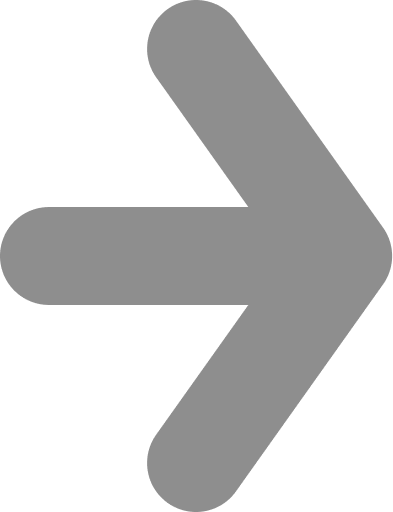
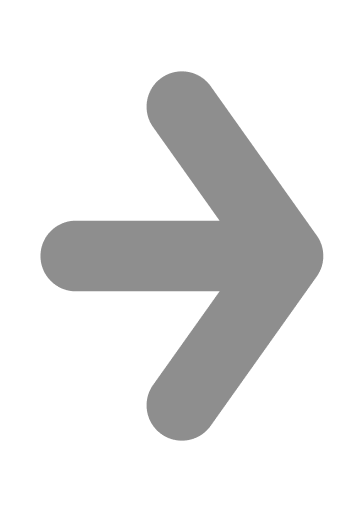
feat(frontend-uiblocks): Create ReportItemCard presentational component (#88)
* upload arrow-right asset

* Render the item's header, image placeholder, and details.

* Implement report-item-card visual styling,

* Define as a 'dumb' component, accepts item data via @Input() and emits a click event via @Output() (ticketClicked).

* refactor(ui-blocks): Enforce type safety and coding standards

* fix(model): Add export to item-model

* fix(ui-blocks): refactor ReportItemCard

* fix(frontend-model): readd item model property to recommended model file

Changed region(s): [[0.0, 0.0, 0.9973, 1.0]]

diff --git a/frontend/recorever-frontend/src/app/share-ui-blocks/report-item-grid/report-item-card/report-item-card.scss b/frontend/recorever-frontend/src/app/share-ui-blocks/report-item-grid/report-item-card/report-item-card.scss
@@ -1,0 +1,154 @@
+$primary-purple: #5d50d0;
+$light-grey-bg: #f5f5f5;
+$border-color: #eee;
+$text-color: #333;
+$secondary-text: #666;
+
+.item-card {
+  background-color: #fff;
+  border-radius: 8px;
+  box-shadow: 0 2px 4px rgba(0, 0, 0, 0.1);
+  overflow: hidden;
+  width: 300px;
+  margin: 20px;
+  border: 1px solid $border-color;
+
+  .card-header {
+    display: flex;
+    align-items: center;
+    padding: 10px 15px;
+    background-color: $light-grey-bg;
+    border-bottom: 1px solid $border-color;
+
+    .avatar {
+      background-color: $primary-purple;
+      color: white;
+      border-radius: 50%;
+      width: 35px;
+      height: 35px;
+      margin-right: 10px;
+      text-align: center;
+      line-height: 35px;
+      font-size: 14px;
+      font-weight: bold;
+      flex-shrink: 0;
+    }
+
+    .info-text {
+      .item-name {
+        margin: 0;
+        font-size: 16px;
+        font-weight: 500;
+        color: $text-color;
+      }
+
+      .post-date {
+        margin: 0;
+        font-size: 12px;
+        color: $secondary-text;
+      }
+    }
+  }
+
+  .item-image-area {
+    position: relative;
+    height: 180px;
+    background-color: $light-grey-bg;
+    display: flex;
+    align-items: center;
+    justify-content: center;
+    overflow: hidden;
+
+    .main-item-photo {
+      max-width: 100%;
+      max-height: 100%;
+      object-fit: contain;
+      display: block;
+    }
+
+    .arrow {
+      position: absolute;
+      top: 50%;
+      transform: translateY(-50%);
+      cursor: pointer;
+      padding: 5px;
+      z-index: 10;
+
+      .arrow-icon {
+        width: 24px;
+        height: 24px;
+        opacity: 0.7;
+        transition: opacity 0.2s ease;
+        display: block;
+      }
+
+      &:hover .arrow-icon {
+        opacity: 1;
+      }
+
+      &.left-arrow {
+        left: 5px;
+      }
+
+      &.right-arrow {
+        right: 5px;
+      }
+    }
+  }
+
+  .card-body {
+    padding: 15px;
+
+    .item-title {
+      margin-top: 0;
+      margin-bottom: 5px;
+      font-size: 18px;
+      font-weight: 600;
+      color: $text-color;
+    }
+
+    .item-location {
+      margin-top: 0;
+      margin-bottom: 15px;
+      font-size: 14px;
+      color: $secondary-text;
+    }
+
+    .item-description {
+      font-size: 14px;
+      color: $text-color;
+      line-height: 1.4;
+      margin-bottom: 20px;
+    }
+
+    .card-footer-actions {
+      display: flex;
+      justify-content: space-between;
+      align-items: center;
+      margin-top: 10px;
+
+      .verified-label {
+        font-size: 14px;
+        color: #ccc;
+        font-weight: 500;
+        visibility: hidden;
+      }
+    }
+
+    .ticket-btn {
+      background-color: $primary-purple;
+      color: white;
+      padding: 8px 18px;
+      border: none;
+      border-radius: 20px;
+      cursor: pointer;
+      font-weight: 500;
+      font-size: 14px;
+      transition: background-color 0.15s ease;
+
+      &:hover {
+        background-color: darken($primary-purple, 5%);
+      }
+    }
+  }
+}

diff --git a/frontend/recorever-frontend/src/app/share-ui-blocks/report-item-grid/report-item-card/report-item-card.html b/frontend/recorever-frontend/src/app/share-ui-blocks/report-item-grid/report-item-card/report-item-card.html
@@ -1,1 +1,38 @@
-<p>report-item-card works!</p>
+<div class="item-card">
+
+  <div class="card-header">
+    <div class="avatar">{{ item.userInitials }}</div>
+    <div class="info-text">
+      <h4 class="item-name">{{ item.userName }}</h4>
+      <p class="post-date">{{ item.postDate }}</p>
+    </div>
+  </div>
+
+  <div class="item-image-area">
+    <div class="arrow left-arrow">
+      <img src="assets/arrow-left.png" alt="Previous" class="arrow-icon">
+    </div>
+
+    <img src="assets/temp-photo-item.png" alt="Item Placeholder Image" class="main-item-photo">
+
+    <div class="arrow right-arrow">
+      <img src="assets/arrow-right.png" alt="Next" class="arrow-icon">
+    </div>
+  </div>
+
+  <div class="card-body">
+    <h3 class="item-title">{{ item.title }}</h3>
+    <p class="item-location">{{ item.location }}</p>
+
+    <p class="item-description">
+      {{ item.description }}
+    </p>
+
+    <div class="card-footer-actions">
+      <span class="verified-label"></span>
+      <button class="ticket-btn" (click)="onTicketClick()">
+        Ticket
+      </button>
+    </div>
+  </div>
+</div>

diff --git a/frontend/recorever-frontend/src/app/share-ui-blocks/report-item-grid/report-item-card/report-item-card.ts b/frontend/recorever-frontend/src/app/share-ui-blocks/report-item-grid/report-item-card/report-item-card.ts
@@ -1,11 +1,30 @@
-import { Component } from '@angular/core';
+import { Component, Input, Output, EventEmitter } from '@angular/core';
+import { CommonModule } from '@angular/common';
+import { ReportItem } from '../../../models/item-model';
 
 @Component({
   selector: 'app-report-item-card',
-  imports: [],
+  standalone: true,
+  imports: [CommonModule],
   templateUrl: './report-item-card.html',
   styleUrl: './report-item-card.scss',
 })
+
 export class ReportItemCard {
 
+  @Input() item: ReportItem = {
+    userInitials: 'A',
+    userName: 'User Name',
+    postDate: 'Date',
+    title: 'Title',
+    location: 'Location',
+    description: 'Lorem ipsum dolor sit amet, consectetur adipiscing elit,' +
+        ' sed do eiusmod tempor',
+  };
+
+  @Output() ticketClicked = new EventEmitter<void>();
+
+  onTicketClick(): void {
+    this.ticketClicked.emit();
+  }
 }

diff --git a/frontend/recorever-frontend/src/app/models/item-model.ts b/frontend/recorever-frontend/src/app/models/item-model.ts
@@ -1,0 +1,8 @@
+export type ReportItem = {
+  userInitials: string;
+  userName: string;
+  postDate: string;
+  title: string;
+  location: string;
+  description: string;
+}
